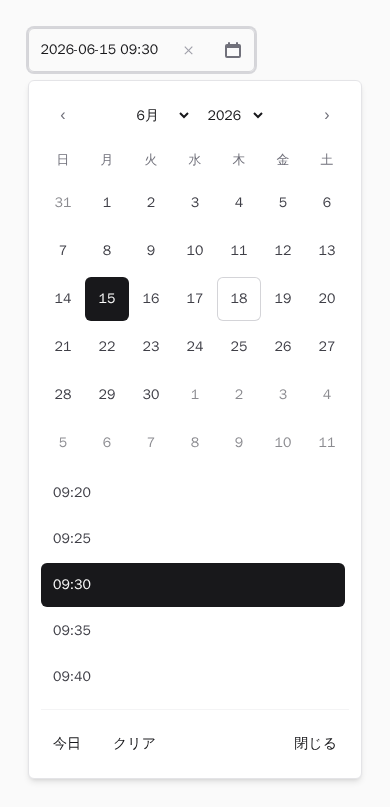
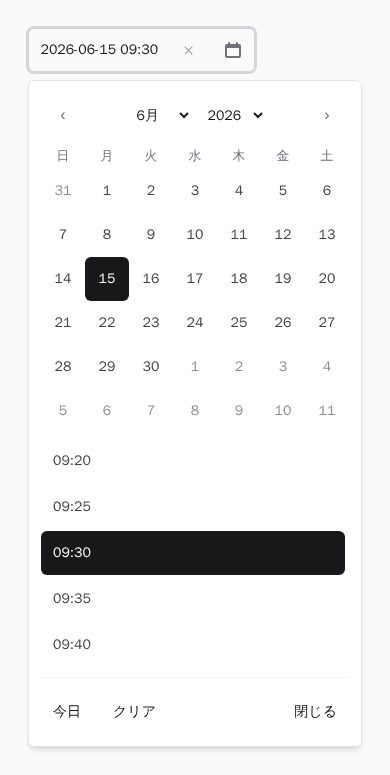
Compact the date grid and highlight the hovered week row
Remove the vertical margin between week rows and shorten the weekday
header row, while keeping the 44x44px (WCAG 2.5.5) touch target on day
cells unchanged. Hovering or keyboard-focusing a day now also highlights
its whole week row via the `week` slot, using CSS :hover/:focus-within
bubbling from the day button to the row div (no JS/Alpine state needed).

Add a screenshot capture demonstrating the row hover and regenerate the
README screenshots to reflect the more compact layout.

diff --git a/tests/screenshots/capture.spec.ts b/tests/screenshots/capture.spec.ts
@@ -14,7 +14,7 @@ import { expect, test } from '@playwright/test'
 const INPUT = '#showcase-input'
 const PANEL = '#showcase-panel'
 
-type Shot = { name: string; url: string }
+type Shot = { name: string; url: string; hover?: boolean }
 
 const shots: Shot[] = [
   { name: 'date-light', url: '/showcase?mode=date' },
@@ -24,6 +24,10 @@ const shots: Shot[] = [
   // Japanese-localized UI (?lang=ja): weekday/month names + footer buttons.
   { name: 'date-ja-light', url: '/showcase?mode=date&lang=ja' },
   { name: 'datetime-ja-light', url: '/showcase?mode=datetime&lang=ja' },
+  // Demonstrates the whole-week-row hover highlight (see `week` in
+  // config/datepicker.php). Hovers a day a few rows in so the shot always
+  // lands on an in-month week regardless of which weekday the 1st falls on.
+  { name: 'date-hover-light', url: '/showcase?mode=date', hover: true },
 ]
 
 for (const shot of shots) {
@@ -57,6 +61,12 @@ for (const shot of shots) {
     const y = Math.max(0, Math.min(input.y, panel.y) - pad)
     const right = Math.max(input.x + input.width, panel.x + panel.width) + pad
     const bottom = Math.max(input.y + input.height, panel.y + panel.height) + pad
+
+    if (shot.hover) {
+      // Third grid row, a middle column: reliably an in-month day regardless
+      // of which weekday the 1st of the current month falls on.
+      await page.locator(`${PANEL} [role="row"]`).nth(2).locator('button[data-date]').nth(3).hover()
+    }
 
     await page.screenshot({
       path: `docs/images/datepicker-${shot.name}.png`,

diff --git a/config/datepicker.php b/config/datepicker.php
@@ -164,10 +164,18 @@ return [
 
         'grid' => 'w-full border-collapse',
         'weekday_row' => 'grid grid-cols-7 justify-items-center',
-        'weekday' => 'flex h-8 w-11 items-center justify-center text-[0.8rem] font-normal text-zinc-500 dark:text-zinc-400',
-        'week' => 'mt-1 grid grid-cols-7 justify-items-center',
+        // Not a touch target (no click handler), so it's free to be shorter than
+        // the 44px day cells below it; h-6 keeps the header compact.
+        'weekday' => 'flex h-6 w-11 items-center justify-center text-[0.8rem] font-normal text-zinc-500 dark:text-zinc-400',
+        // No vertical margin between weeks by design (a dense, table-like grid).
+        // `hover`/`focus-within` light up the whole row when any day button in it
+        // is hovered or focused — CSS :hover/:focus-within bubble from the button
+        // to this row div natively, so no JS/Alpine state is needed.
+        'week' => 'grid grid-cols-7 justify-items-center rounded-md transition-colors hover:bg-zinc-50 focus-within:bg-zinc-50 dark:hover:bg-zinc-900 dark:focus-within:bg-zinc-900',
         // 44x44 touch target (size-11). day_today uses a ring (no background) so
-        // it composes with day_selected's fill instead of fighting it.
+        // it composes with day_selected's fill instead of fighting it. The
+        // button's own hover is a stronger shade than the row's, so the hovered
+        // cell still stands out within its highlighted row.
         'day' => 'flex size-11 items-center justify-center rounded-md text-sm font-normal text-zinc-700 transition-colors hover:bg-zinc-100 hover:text-zinc-900 focus-visible:outline-none focus-visible:ring-2 focus-visible:ring-zinc-400/50 dark:text-zinc-200 dark:hover:bg-zinc-800 dark:hover:text-zinc-50',
         // The inverted fill/text are applied through the `aria-selected` attribute
         // variant (the day button always carries aria-selected="true|false"). An

diff --git a/README.md b/README.md
@@ -22,6 +22,13 @@ customisable (see [Styling & theming](#styling--theming)).
 | :----------: | :---------: |
 | ![Date picker — light](docs/images/datepicker-date-light.png) | ![Date picker — dark](docs/images/datepicker-date-dark.png) |
 
+Hovering any day highlights its whole week row (the `week` slot), so scanning a
+row is easier at a glance; the hovered day itself stays a shade darker:
+
+| Date (hover) |
+| :-----------: |
+| ![Date picker — week row hover](docs/images/datepicker-date-hover-light.png) |
+
 | Time | Datetime |
 | :--: | :------: |
 | ![Time picker](docs/images/datepicker-time-light.png) | ![Datetime picker](docs/images/datepicker-datetime-light.png) |
@@ -435,7 +442,9 @@ The defaults target **Tailwind v4** and use the **zinc** palette
 (shadcn-inspired). The popover controls (days, nav, time options, footer) are
 sized to a **44×44px touch target**. `day_today` is rendered as a ring (no
 background) so it composes cleanly with the filled `day_selected` state instead
-of fighting it.
+of fighting it. Hovering or keyboard-focusing any day highlights its whole week
+row via the `week` slot (`hover:`/`focus-within:` — no JS involved, since a
+child's `:hover`/`:focus-within` naturally applies to its ancestor row too).
 
 The **text input** keeps deliberately **minimal** default styling — a height,
 border, rounded corners and padding — so it is usable out of the box yet easy to

diff --git a/CHANGELOG.md b/CHANGELOG.md
@@ -21,5 +21,13 @@ and this project adheres to [Semantic Versioning](https://semver.org/spec/v2.0.0
 - Tailwind-first theming: config class map, per-instance `classes` prop, named
   themes, data-attribute state styling and dark mode support.
 - Laravel 11 / 12 / 13 and Livewire 3 / 4 support.
+- Hovering or keyboard-focusing a day now highlights its whole week row
+  (`week` slot), not just the individual day cell.
+
+### Changed
+
+- Compacted the date grid: removed the vertical margin between week rows and
+  shortened the weekday header row, while keeping the 44×44px (WCAG 2.5.5)
+  touch target on day cells unchanged.
 
 [Unreleased]: https://github.com/trust-medical/livewire-datepicker-ui/commits/main
